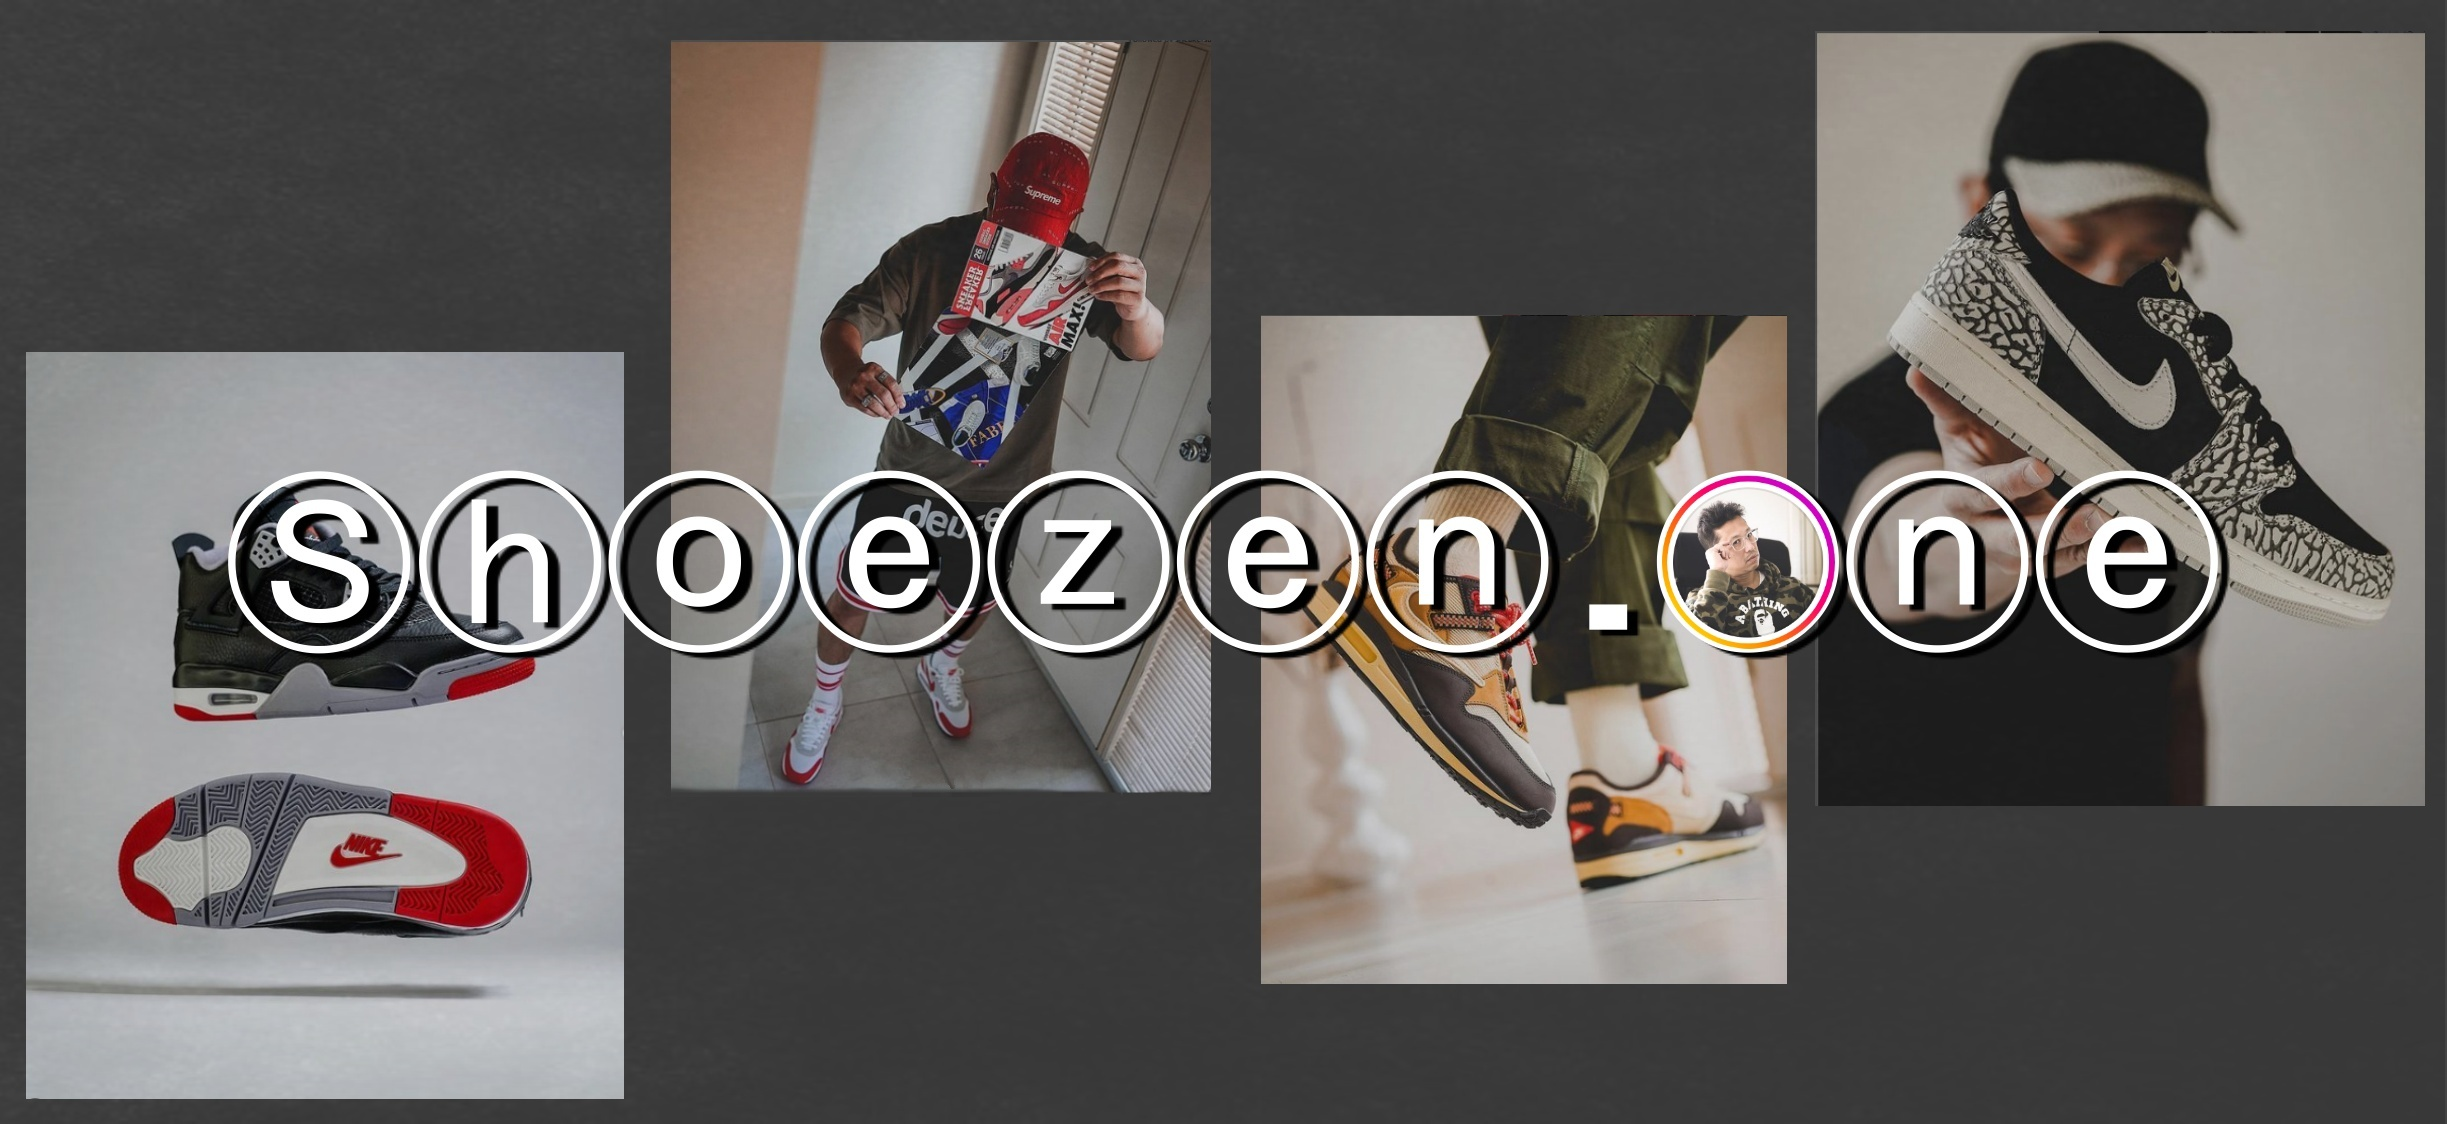
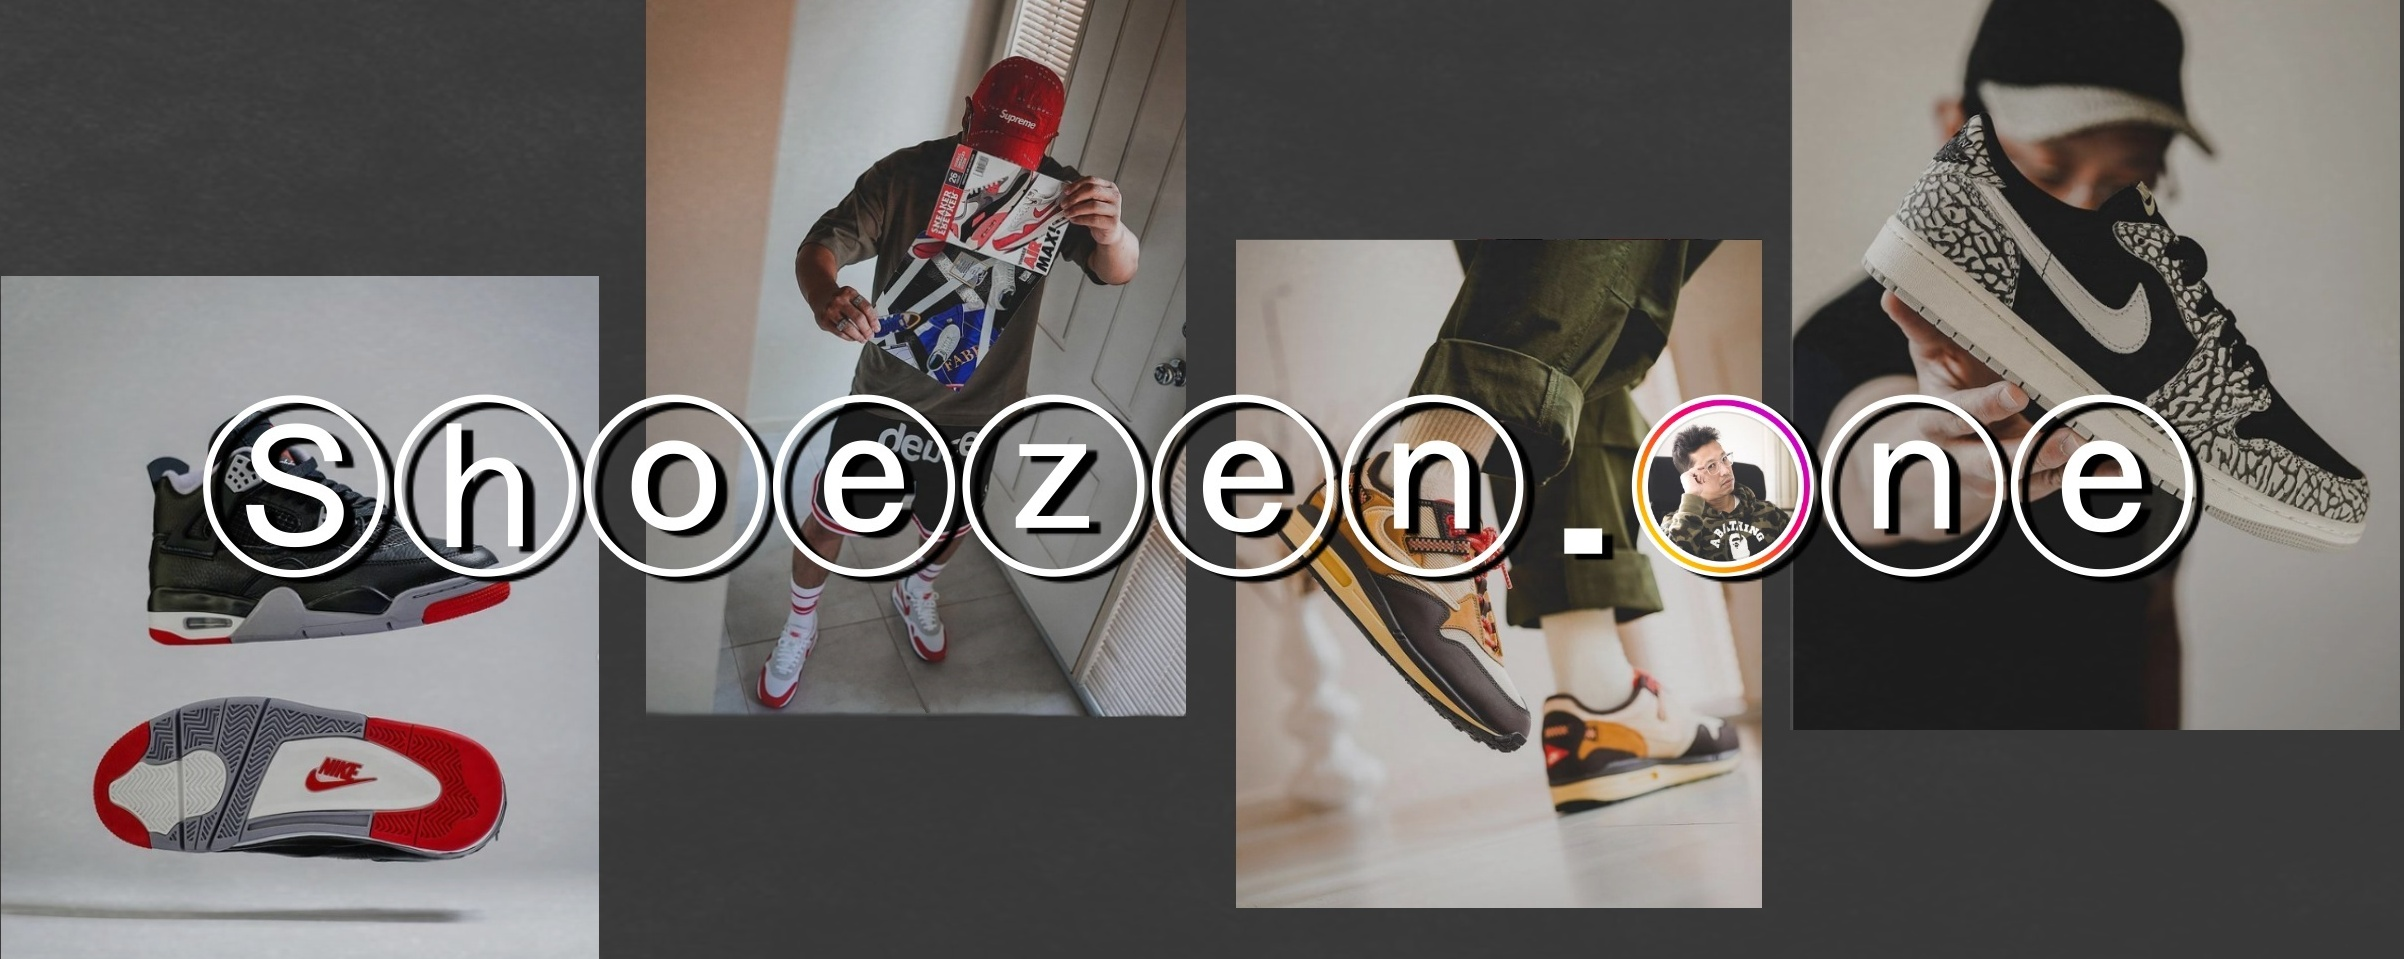
Picture Updates, and Sizing fixes

diff --git a/index.html b/index.html
@@ -10,97 +10,106 @@
 </head>
 
 <body>
+
+  <!-- _____________________________________________BANNER SECTION_____________________________________________ -->
+  <div class="banner">
+    <alt="Shoezen.one Banner">
+  </div>
+
   <div class="navbar">
     <a href="https://www.instagram.com/shoezen.one" target="_blank">
       <h1 class="logo">@shoezen.one</h1>
     </a>
     <ul>
-      <li><a href="#homeSection">Home</a></li>
+      <li><a href="#gallerySection">My Work</a></li>
+      <li><a href="#aboutSection">About Me</a></li>
       <li><a href="#articlesSection">Articles</a></li>
       <li><a href="#partnersSection">Partners</a></li>
       <li><a href="#contactSection">Contact</a></li>
-      <li><a href="./privacy.html">Privacy Policy</a></li>
+      <!--<li><a href="./privacy.html">Privacy Policy</a></li>-->
     </ul>
-  </div>
-
-
-  <!-- _____________________________________________BANNER SECTION_____________________________________________ -->
-  <br><br><br>
-  <div class="banner">
-    <alt="Shoezen.one Banner">
   </div>
 
   <!-- _____________________________________________GALLERY SECTION_____________________________________________ -->
   <div class="content" id="gallerySection">
     <!-- Content for the Gallery section -->
-    <p>My Top 📸</p>
+    <h3>My Work 📸</h3>
     <div class="gallery">
-      <!-- Supreme Nike Dunks -->
+
+      <!-- Jordan 1 chicago -->
       <div class="gallery-item">
-        <a href="Assets/Shoe1.png" target="_blank">
-          <img src="Assets/Shoe1.png" alt="Image 1">
-        </a>
-      </div>
-      <!-- Chicagos Jordan 1s -->
-      <div class="gallery-item">
-        <a href="Assets/Shoe2.png" target="_blank">
-          <img src="Assets/Shoe2.png" alt="Image 2">
-        </a>
-      </div>
-      <!-- Jordan 4 SB's-->
-      <div class="gallery-item">
-        <a href="Assets/Shoe3.png" target="_blank">
-          <img src="Assets/Shoe3.png" alt="Image 3">
-        </a>
-      </div>
-      <!-- AM1 Travis Scott -->
-      <div class="gallery-item">
-        <a href="Assets/Shoe4.png" target="_blank">
-          <img src="Assets/Shoe4.png" alt="Image 4">
-        </a>
-      </div>
-      <!-- Kobe 6 Grinches-->
-      <div class="gallery-item">
-        <a href="Assets/Shoe5.png" target="_blank">
-          <img src="Assets/Shoe5.png" alt="Image 5">
+        <a href="https://www.instagram.com/p/CovhnVLBCxs/?img_index=1" target="_blank">
+          <img src="Assets/J1C.PNG" alt="Jordan 1 Chicago" loading="lazy">
         </a>
       </div>
 
-      <!-- Supreme Nike Dunks -->
+      <!-- air Max 1's -->
       <div class="gallery-item">
-        <a href="Assets/Shoe1.png" target="_blank">
-          <img src="Assets/Shoe6.PNG" alt="Image 1">
+        <a href="https://www.instagram.com/p/C4JVqz2hOug/?img_index=1" target="_blank">
+          <img src="Assets/AM1.PNG" alt="Air Max 1's" loading="lazy">
         </a>
       </div>
-      <!-- Chicagos Jordan 1s -->
+
+      <!-- Nike dunk Supremes -->
       <div class="gallery-item">
-        <a href="Assets/Shoe2.png" target="_blank">
-          <img src="Assets/Shoe7.PNG" alt="Image 2">
+        <a href="https://www.instagram.com/p/Cw_Z8iZhv_O/?img_index=1" target="_blank">
+          <img src="Assets/NSBS.PNG" alt="Nike dunk Supremes" loading="lazy">
         </a>
       </div>
+      <!-- Kobe 4-->
+      <div class="gallery-item">
+        <a href="https://www.instagram.com/p/Ch8uUq0ppDb/?img_index=1" target="_blank">
+          <img src="Assets/KOBE.PNG" alt="Kobe 4" loading="lazy">
+        </a>
+      </div>
+
+      <!-- AM1 Travis Scott-->
+      <div class="gallery-item">
+        <a href="https://www.instagram.com/p/Cl9tQichf2W/?img_index=3" target="_blank">
+          <img src="Assets/TSAM1.PNG" alt="AM1 Travis Scott" loading="lazy">
+        </a>
+      </div>
+
       <!-- Jordan 4 SB's-->
       <div class="gallery-item">
-        <a href="Assets/Shoe3.png" target="_blank">
-          <img src="Assets/shoe8.PNG" alt="Image 3">
+        <a href="https://www.instagram.com/p/Cqen59zpxBc/?img_index=1" target="_blank">
+          <img src="Assets/J4SB.PNG" alt="Jordan 4 SB's" loading="lazy">
         </a>
       </div>
-      <!-- AM1 Travis Scott -->
+
+      <!-- Jordan 1s Elephant -->
       <div class="gallery-item">
-        <a href="Assets/Shoe4.png" target="_blank">
-          <img src="Assets/shoe9.PNG" alt="Image 4">
+        <a href="https://www.instagram.com/p/C0NMJ7bh_qQ/?img_index=1" target="_blank">
+          <img src="Assets/J1E.PNG" alt="Jordan 1s Elephant" loading="lazy">
         </a>
       </div>
-      <!-- Kobe 6 Grinches-->
+
+      <!-- Jordan 4 Bred -->
       <div class="gallery-item">
-        <a href="Assets/Shoe5.png" target="_blank">
-          <img src="Assets/shoe10.PNG" alt="Image 5">
+        <a href="https://www.instagram.com/p/C3ygKighVh5/?img_index=1" target="_blank">
+          <img src="Assets/J4B.PNG" alt="Jordan 4 Bred " loading="lazy">
         </a>
       </div>
+      <!-- Nike SB dunk Power Puff-->
+      <div class="gallery-item">
+        <a href="https://www.instagram.com/p/C1-zOoXJVG7/?img_index=1" target="_blank">
+          <img src="Assets/NSBPP.PNG" alt="Nike SB dunk Power Puff" loading="lazy">
+        </a>
+      </div>
+
+      <!-- Nike SB Lobster -->
+      <div class="gallery-item">
+        <a href="https://www.instagram.com/p/CnSwyX6hbvX/?img_index=1" target="_blank">
+          <img src="Assets/NSBL.PNG" alt="Nike SB Lobster" loading="lazy">
+        </a>
+      </div>
+
     </div>
 
-    <!-- _____________________________________________WELCOME SECTION_____________________________________________ -->
-    <div class="content" id="homeSection">
-      <h1><br>Welcome to My Portfolio</h1>
+
+    <!-- _____________________________________________ABOUT SECTION_____________________________________________ -->
+    <div class="content" id="aboutSection">
+      <h1>About Me</h1>
 
       <div class="image-with-text">
         <img src="Assets/Profilepic.png" alt="Photography Portfolio">
@@ -137,6 +146,28 @@
 
 
       <!-- _____________________________________________ARTICLE SECTION_____________________________________________ -->
+      
+      <h2><br>Featured Articles</h2>
+      <!-- OX Street -->
+      <div class="article-container">
+        <img src="Assets/oxcover.png" alt="Article Image" class="article-image">
+        <div class="article-summary">
+          <h3 class="article-title">OX STREET</h3>
+          <p class="article-text">DERRICK NARCISO - FILIPINO-AUSTRALIAN SNEAKER PHOTOGRAPHER INTERVIEW</p>
+        </div>
+      </div>
+
+      <!-- SBS Filipino -->
+      <div class="article-container">
+        <!-- Article Image -->
+        <img src="Assets/sbscover.png" alt="Article Image" class="article-image">
+        <!-- Article Summary -->
+        <div class="article-summary">
+          <h3 class="article-title">SBS Filipino</h3>
+          <p class="article-text">Derrick Narciso, being a 'sneakerhead'</p>
+        </div>
+      </div>
+
       <div class="content" id="articlesSection">
         <h2><br>My Articles</h2>
         <h3>Here are some articles I have been featured on</h3>

diff --git a/styles.css b/styles.css
@@ -223,8 +223,8 @@ i {
 }
 
 .banner img {
-  width: 1520px;
-  height: 420px;
+  width: auto;
+  height: 380px;
 }
 /* Add these styles to your existing CSS */
 
@@ -232,7 +232,7 @@ i {
 .gallery {
   display: grid;
   grid-template-columns: repeat(auto-fit, minmax(250px, 1fr)); /* Responsive grid layout */
-  gap: 10px; /* Adjust the gap between items */
+  gap: 5px; /* Adjust the gap between items */
 }
 
 /* Each gallery item */
@@ -258,8 +258,44 @@ i {
   color: inherit;
 }
 
+/* CSS for Article Container */
+.article-container {
+  width: 300px;
+  height: 400px;
+  border: 1px solid #ccc;
+  border-radius: 8px;
+  overflow: hidden;
+}
+
+.article-image {
+  width: 300px;
+  height: 280px;
+  display: block;
+}
+
+.article-summary {
+  padding: 20px;
+}
+
+.article-title {
+  font-size: 20px;
+  margin-top: 0;
+}
+
+.article-text {
+  font-size: 16px;
+  line-height: 1.5;
+  margin-top: 10px;
+}
+
 /* Media Queries for Responsive Design */
 @media only screen and (max-width: 768px) {
+
+  img {
+    max-width: 100%;
+    height: auto;
+    width: 180px;
+  }
 
   .navbar {
     flex-direction: column;
@@ -285,6 +321,7 @@ i {
   }
   
   .banner {
+    width: auto;
     height: 250px;
   }
 
